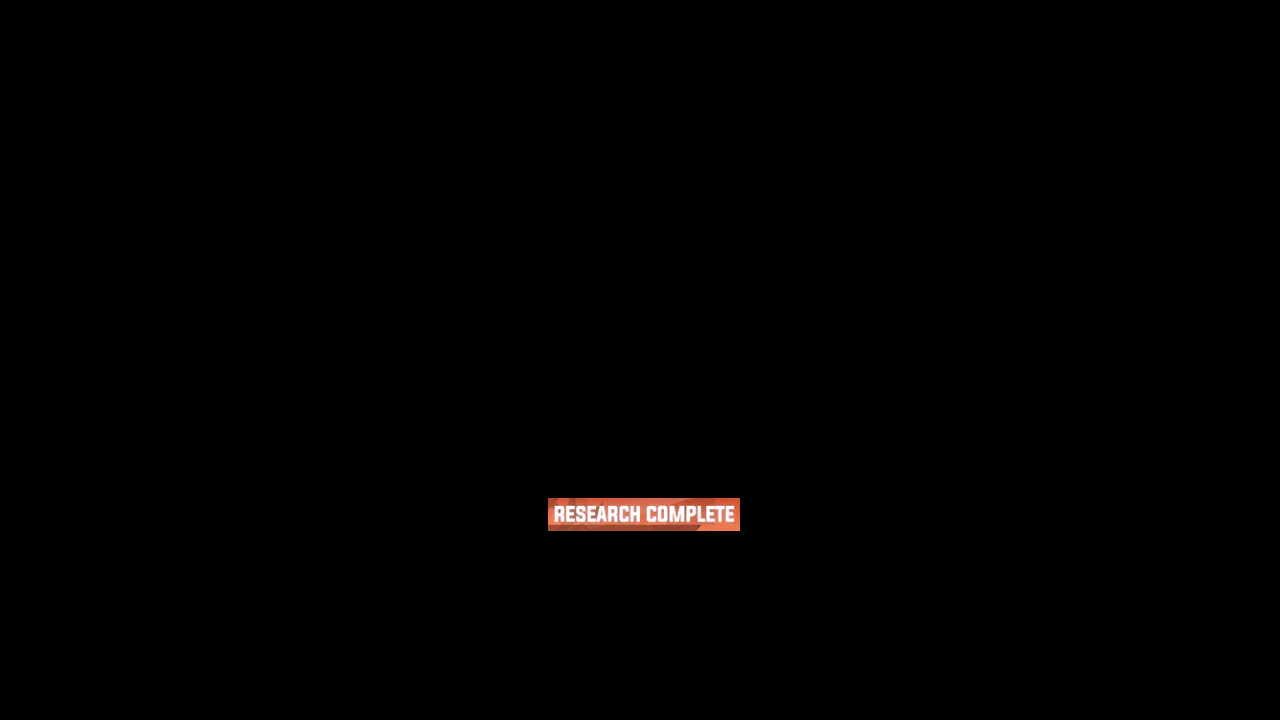
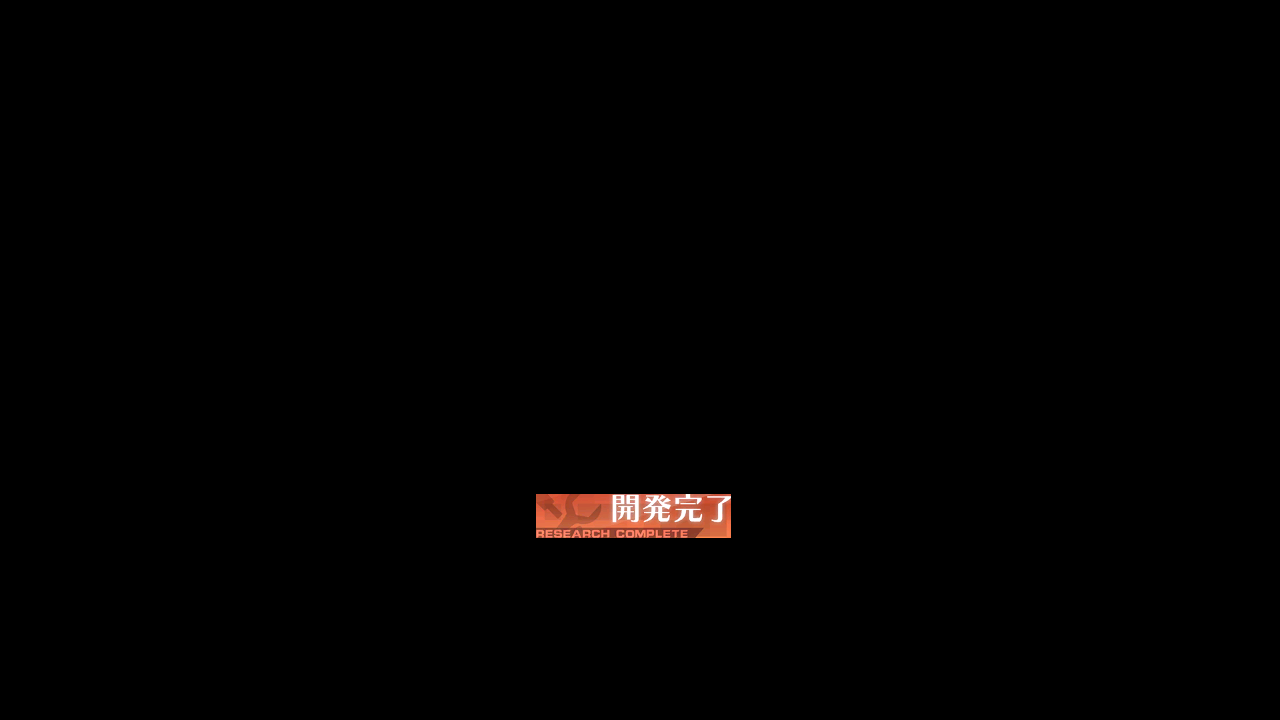
Fix: [JP] asset SHIPYARD_RESEARCH_COMPLETE

Changed region(s): [[0.4062, 0.6722, 0.5938, 0.7639]]

diff --git a/module/shipyard/assets.py b/module/shipyard/assets.py
@@ -14,7 +14,7 @@ SHIPYARD_PLUS_DEV = Button(area={'cn': (1218, 422, 1256, 458), 'en': (1218, 422,
 SHIPYARD_PLUS_FATE = Button(area={'cn': (1198, 461, 1234, 497), 'en': (1198, 461, 1234, 497), 'jp': (1197, 447, 1235, 481), 'tw': (1198, 461, 1234, 497)}, color={'cn': (82, 128, 192), 'en': (82, 128, 192), 'jp': (82, 128, 192), 'tw': (82, 128, 192)}, button={'cn': (1198, 461, 1234, 497), 'en': (1198, 461, 1234, 497), 'jp': (1197, 447, 1235, 481), 'tw': (1198, 461, 1234, 497)}, file={'cn': './assets/cn/shipyard/SHIPYARD_PLUS_FATE.png', 'en': './assets/en/shipyard/SHIPYARD_PLUS_FATE.png', 'jp': './assets/jp/shipyard/SHIPYARD_PLUS_FATE.png', 'tw': './assets/tw/shipyard/SHIPYARD_PLUS_FATE.png'})
 SHIPYARD_PROGRESS_DEV = Button(area={'cn': (1184, 145, 1273, 175), 'en': (1184, 145, 1273, 175), 'jp': (1211, 149, 1274, 175), 'tw': (1184, 145, 1273, 175)}, color={'cn': (80, 97, 142), 'en': (80, 97, 142), 'jp': (97, 119, 165), 'tw': (80, 97, 142)}, button={'cn': (1184, 145, 1273, 175), 'en': (1184, 145, 1273, 175), 'jp': (1211, 149, 1274, 175), 'tw': (1184, 145, 1273, 175)}, file={'cn': './assets/cn/shipyard/SHIPYARD_PROGRESS_DEV.png', 'en': './assets/en/shipyard/SHIPYARD_PROGRESS_DEV.png', 'jp': './assets/jp/shipyard/SHIPYARD_PROGRESS_DEV.png', 'tw': './assets/tw/shipyard/SHIPYARD_PROGRESS_DEV.png'})
 SHIPYARD_PROGRESS_FATE = Button(area={'cn': (1141, 153, 1278, 190), 'en': (1141, 153, 1278, 190), 'jp': (1189, 151, 1267, 188), 'tw': (1141, 153, 1278, 190)}, color={'cn': (82, 85, 89), 'en': (82, 85, 89), 'jp': (120, 121, 125), 'tw': (82, 85, 89)}, button={'cn': (1141, 153, 1278, 190), 'en': (1141, 153, 1278, 190), 'jp': (1189, 151, 1267, 188), 'tw': (1141, 153, 1278, 190)}, file={'cn': './assets/cn/shipyard/SHIPYARD_PROGRESS_FATE.png', 'en': './assets/en/shipyard/SHIPYARD_PROGRESS_FATE.png', 'jp': './assets/jp/shipyard/SHIPYARD_PROGRESS_FATE.png', 'tw': './assets/tw/shipyard/SHIPYARD_PROGRESS_FATE.png'})
-SHIPYARD_RESEARCH_COMPLETE = Button(area={'cn': (548, 498, 740, 531), 'en': (548, 498, 740, 531), 'jp': (548, 498, 740, 531), 'tw': (548, 498, 740, 531)}, color={'cn': (214, 142, 124), 'en': (214, 142, 124), 'jp': (214, 142, 124), 'tw': (214, 142, 124)}, button={'cn': (548, 498, 740, 531), 'en': (548, 498, 740, 531), 'jp': (548, 498, 740, 531), 'tw': (548, 498, 740, 531)}, file={'cn': './assets/cn/shipyard/SHIPYARD_RESEARCH_COMPLETE.png', 'en': './assets/en/shipyard/SHIPYARD_RESEARCH_COMPLETE.png', 'jp': './assets/jp/shipyard/SHIPYARD_RESEARCH_COMPLETE.png', 'tw': './assets/tw/shipyard/SHIPYARD_RESEARCH_COMPLETE.png'})
+SHIPYARD_RESEARCH_COMPLETE = Button(area={'cn': (548, 498, 740, 531), 'en': (548, 498, 740, 531), 'jp': (536, 494, 731, 538), 'tw': (548, 498, 740, 531)}, color={'cn': (214, 142, 124), 'en': (214, 142, 124), 'jp': (208, 120, 95), 'tw': (214, 142, 124)}, button={'cn': (548, 498, 740, 531), 'en': (548, 498, 740, 531), 'jp': (536, 494, 731, 538), 'tw': (548, 498, 740, 531)}, file={'cn': './assets/cn/shipyard/SHIPYARD_RESEARCH_COMPLETE.png', 'en': './assets/en/shipyard/SHIPYARD_RESEARCH_COMPLETE.png', 'jp': './assets/jp/shipyard/SHIPYARD_RESEARCH_COMPLETE.png', 'tw': './assets/tw/shipyard/SHIPYARD_RESEARCH_COMPLETE.png'})
 SHIPYARD_RESEARCH_INCOMPLETE = Button(area={'cn': (616, 490, 740, 531), 'en': (616, 490, 740, 531), 'jp': (614, 493, 735, 521), 'tw': (616, 490, 740, 531)}, color={'cn': (229, 192, 121), 'en': (229, 192, 121), 'jp': (244, 219, 164), 'tw': (229, 192, 121)}, button={'cn': (616, 490, 740, 531), 'en': (616, 490, 740, 531), 'jp': (614, 493, 735, 521), 'tw': (616, 490, 740, 531)}, file={'cn': './assets/cn/shipyard/SHIPYARD_RESEARCH_INCOMPLETE.png', 'en': './assets/en/shipyard/SHIPYARD_RESEARCH_INCOMPLETE.png', 'jp': './assets/jp/shipyard/SHIPYARD_RESEARCH_INCOMPLETE.png', 'tw': './assets/tw/shipyard/SHIPYARD_RESEARCH_INCOMPLETE.png'})
 SHIPYARD_SERIES_SELECT_CHECK = Button(area={'cn': (567, 209, 717, 228), 'en': (567, 209, 717, 228), 'jp': (566, 210, 718, 228), 'tw': (567, 209, 717, 228)}, color={'cn': (21, 30, 58), 'en': (21, 30, 58), 'jp': (21, 30, 58), 'tw': (21, 30, 58)}, button={'cn': (567, 209, 717, 228), 'en': (567, 209, 717, 228), 'jp': (566, 210, 718, 228), 'tw': (567, 209, 717, 228)}, file={'cn': './assets/cn/shipyard/SHIPYARD_SERIES_SELECT_CHECK.png', 'en': './assets/en/shipyard/SHIPYARD_SERIES_SELECT_CHECK.png', 'jp': './assets/jp/shipyard/SHIPYARD_SERIES_SELECT_CHECK.png', 'tw': './assets/tw/shipyard/SHIPYARD_SERIES_SELECT_CHECK.png'})
 SHIPYARD_SERIES_SELECT_ENTER = Button(area={'cn': (34, 659, 160, 700), 'en': (34, 659, 160, 700), 'jp': (36, 674, 154, 696), 'tw': (34, 659, 160, 700)}, color={'cn': (66, 87, 138), 'en': (66, 87, 138), 'jp': (112, 126, 161), 'tw': (66, 87, 138)}, button={'cn': (34, 659, 160, 700), 'en': (34, 659, 160, 700), 'jp': (36, 674, 154, 696), 'tw': (34, 659, 160, 700)}, file={'cn': './assets/cn/shipyard/SHIPYARD_SERIES_SELECT_ENTER.png', 'en': './assets/en/shipyard/SHIPYARD_SERIES_SELECT_ENTER.png', 'jp': './assets/jp/shipyard/SHIPYARD_SERIES_SELECT_ENTER.png', 'tw': './assets/tw/shipyard/SHIPYARD_SERIES_SELECT_ENTER.png'})
